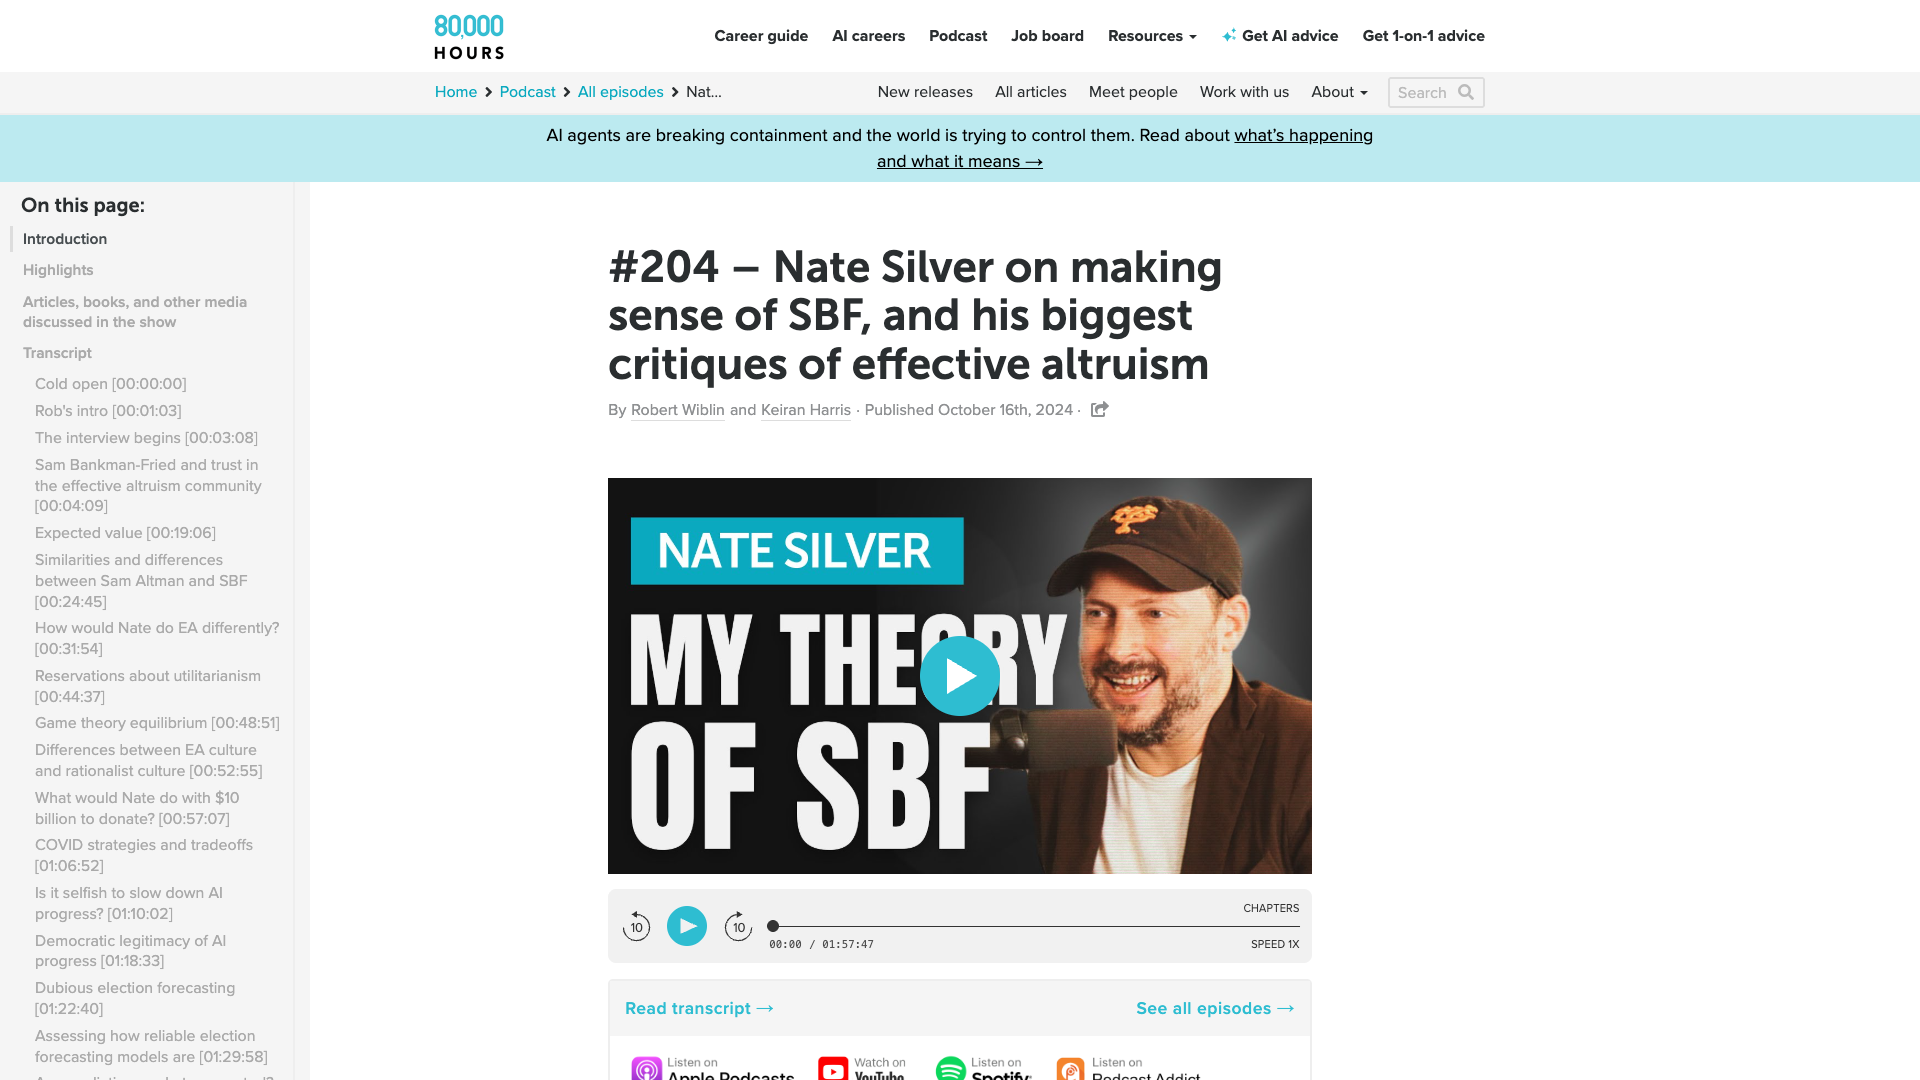
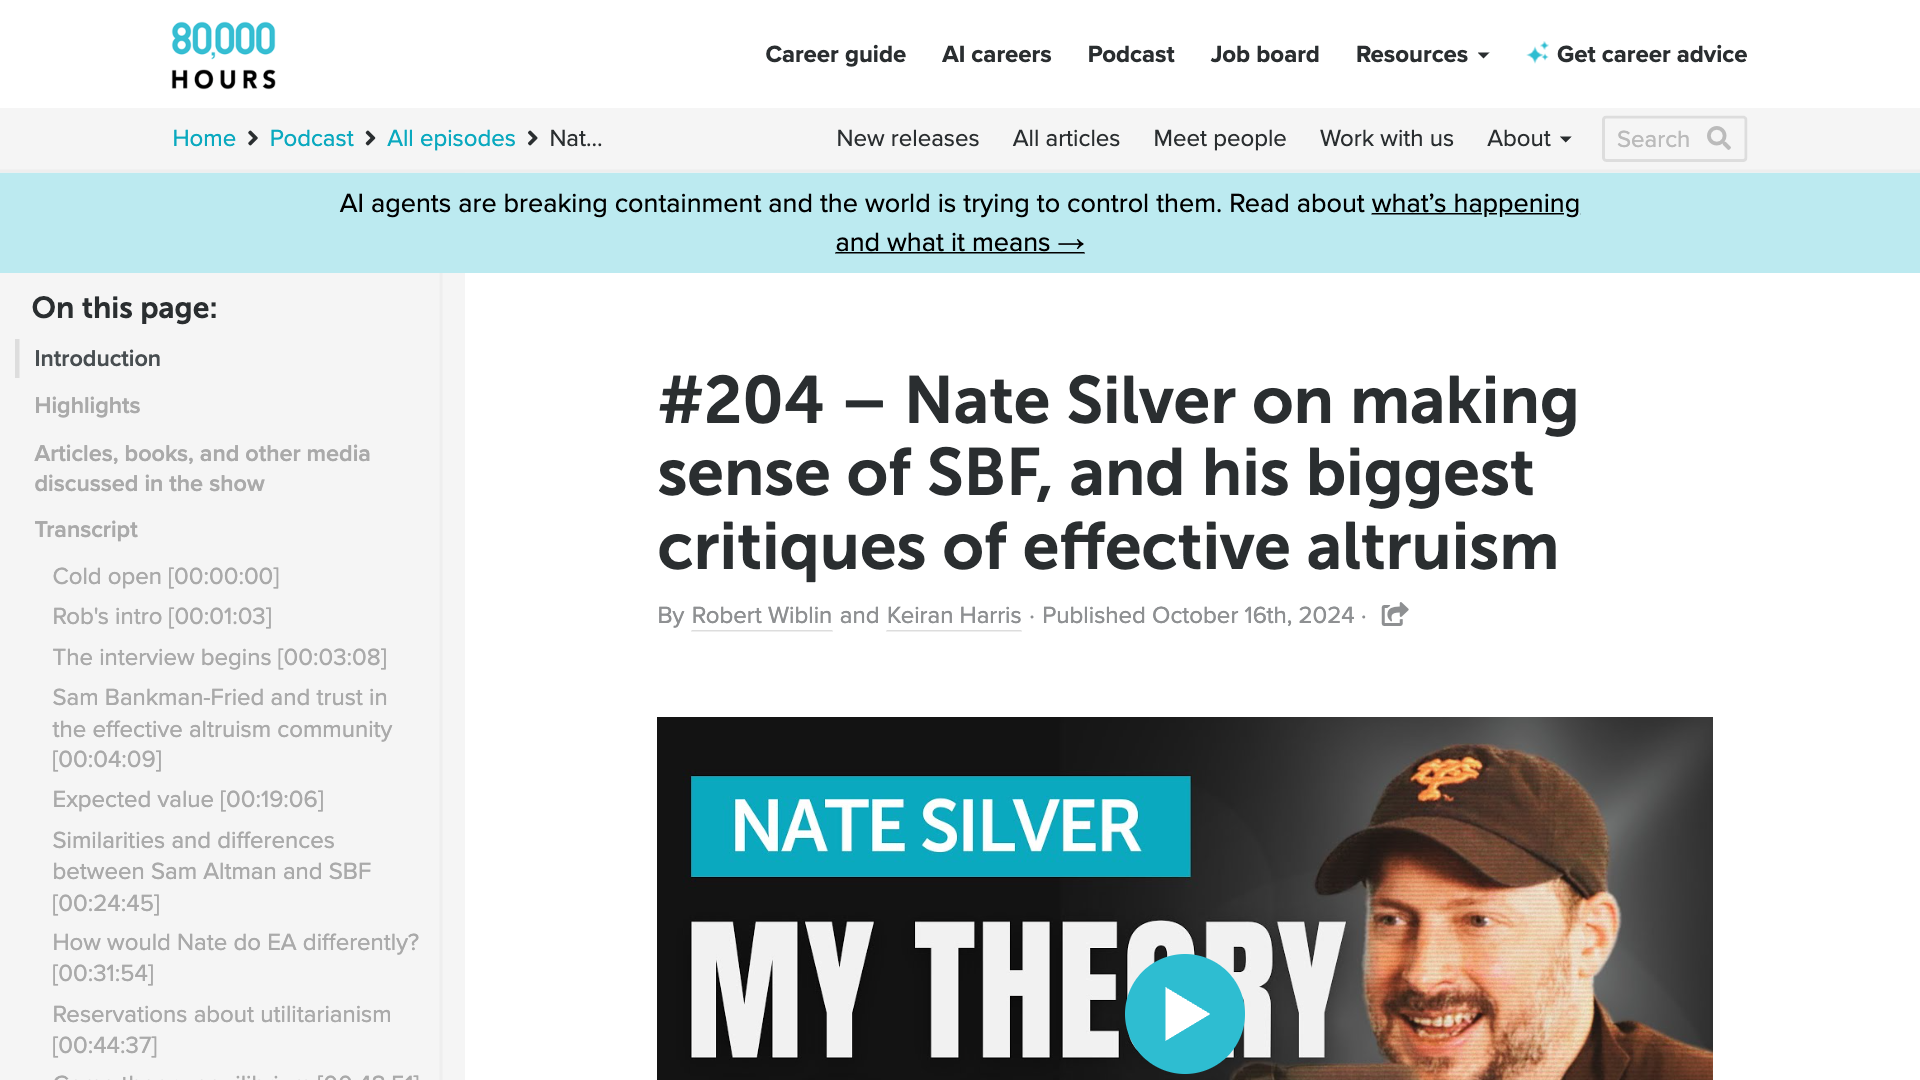
Sponsor pages captured at 150% page zoom; scene 23 scrolls down the full guide page, address bar 80000hours.org/ballpark

diff --git a/animations/assets/web_shots.py b/animations/assets/web_shots.py
@@ -13,7 +13,8 @@ cannot reach it: every recipe below is a URL plus the clicks that get to the boa
 Output: `animations/assets/web_media/<game>.png`, 1920x1080 unless `--size` says
 otherwise (scene 16 uses 1920x1490), dark colour scheme
 requested (a site with no dark mode, like Dordle, stays light) unless a recipe names
-its own scheme as a third field. A screenshot is a
+its own (the recipe's options dict, which can also set a page zoom and a
+full-page capture). A screenshot is a
 POINT-IN-TIME capture of a live site — today's puzzle, today's layout — so re-running
 replaces it; nothing here is computed. The sites change, so a recipe that stops
 finding its click target FAILS LOUDLY rather than saving the menu under the board's
@@ -49,9 +50,16 @@ def _block_ads(route):
         return route.abort()
     return route.continue_()      # after load / after each click: these are JS apps with animations
 
-# game -> (url, [click steps]). A step is a Playwright locator description:
+# game -> (url, [click steps], {options}). A step is a Playwright locator description:
 #   ("text", "Play")        the first visible element whose text is exactly that
 #   ("frame", url_part)     switch into the iframe whose url contains url_part
+# options (all optional) are `_run`'s: scheme ("dark"), zoom (1.0), full_page (False)
+# the 80,000 Hours pages are captured ZOOMED, as Chrome's page zoom would show them:
+# laid out in a 1920/ZOOM-wide window and captured at ZOOM x the pixel density, so
+# the PNG is still 1920 wide but the site's text column fills more of it
+ZOOM_80K = 1.5
+LIGHT_80K = {"scheme": "light", "zoom": ZOOM_80K}
+
 GAMES = {
     # the itch.io page, as a browser shows it; the game is an iframe inside it.
     # (Loaded on its own, the iframe draws in the top-left of a blank white page.)
@@ -70,22 +78,27 @@ GAMES = {
     # the sponsor read (80,000 Hours): plain pages, no clicks, LIGHT scheme -- the
     # site as a visitor normally sees it
     "80k_doctor":   ("https://80000hours.org/articles/how-many-lives-does-a-doctor-save-part-1/",
-                     [], "light"),
-    "80k_problems": ("https://80000hours.org/career-guide/world-problems/", [], "light"),
+                     [], LIGHT_80K),
+    "80k_problems": ("https://80000hours.org/career-guide/world-problems/", [], LIGHT_80K),
     "80k_elie":     ("https://80000hours.org/podcast/episodes/elie-hassenfeld-givewell-critiques-and-lessons/",
-                     [], "light"),
+                     [], LIGHT_80K),
     "80k_oster":    ("https://80000hours.org/podcast/episodes/emily-oster-pregnancy-parenting-careers/",
-                     [], "light"),
+                     [], LIGHT_80K),
     "80k_silver":   ("https://80000hours.org/podcast/episodes/nate-silver-effective-altruism-sbf-art-of-risk/",
-                     [], "light"),
-    # the sign-up page the read's link lands on (the sponsorship's own tracked URL)
+                     [], LIGHT_80K),
+    # the sign-up page the read's link lands on (the sponsorship's own tracked URL);
+    # the WHOLE page, since scene 23 scrolls down it
     "80k_guide":    ("https://80000hours.org/gettheguide/?utm_source=youtube&utm_campaign=2026-80KMAR-ballpark&utm_medium=sponsorship",
-                     [], "light"),
+                     [], {**LIGHT_80K, "full_page": True}),
 }
 
 
-def _run(game, url, steps, browser, full_page=False, view=VIEW, scheme="dark"):
-    ctx = browser.new_context(viewport=view, color_scheme=scheme)
+def _run(game, url, steps, browser, full_page=False, view=VIEW, scheme="dark", zoom=1.0):
+    # zoom: lay the page out in a window 1/zoom the size, at zoom x the pixel
+    # density, so the capture keeps `view`'s pixel size with everything bigger
+    css = {"width": round(view["width"] / zoom), "height": round(view["height"] / zoom)}
+    ctx = browser.new_context(viewport=css, device_scale_factor=zoom,
+                              color_scheme=scheme)
     ctx.route("**/*", _block_ads)
     page = ctx.new_page()
     try:
@@ -127,8 +140,8 @@ def main():
     ap.add_argument("--list", action="store_true", help="print the recipes and stop")
     a = ap.parse_args()
     if a.list:
-        for g, (u, s, *sc) in GAMES.items():
-            print(f"{g:13s} {u}  {s}  {sc[0] if sc else 'dark'}")
+        for g, (u, s, *opts) in GAMES.items():
+            print(f"{g:13s} {u}  {s}  {opts[0] if opts else ''}")
         return
     bad = [g for g in a.games if g not in GAMES]
     if bad:
@@ -139,9 +152,11 @@ def main():
         w, h = (int(x) for x in a.size.lower().split("x"))
         ok = []
         for g in todo:
-            url, steps, *scheme = GAMES[g]
-            ok.append(_run(g, url, steps, browser, a.full_page,
-                           {"width": w, "height": h}, *scheme))
+            url, steps, *opts = GAMES[g]
+            opts = dict(opts[0]) if opts else {}
+            full = a.full_page or opts.pop("full_page", False)
+            ok.append(_run(g, url, steps, browser, full,
+                           {"width": w, "height": h}, **opts))
         browser.close()
     if not all(ok):
         sys.exit(1)

diff --git a/animations/assets/sponsor_pages.py b/animations/assets/sponsor_pages.py
@@ -1,10 +1,11 @@
 """The 80,000 Hours pages shown in the sponsor read's browser window (scenes 21-23).
 
 One place for every page's screenshot, address and tab title, and for the window
-they sit in, so the two scenes cannot drift apart.
+they sit in, so the scenes cannot drift apart.
 
-The screenshots are `web_media/80k_*.png`, 1920x1080, light scheme, made by
-`assets/web_shots.py` (recipes `80k_*`). Tab titles are the pages' own headlines;
+The screenshots are `web_media/80k_*.png`, 1920 wide, light scheme, at 150% page
+zoom, made by `assets/web_shots.py` (recipes `80k_*`); `80k_guide` is the whole
+page, so scene 23 can scroll it. Tab titles are the pages' own headlines;
 `browser.py` cuts a long one to the tab with an ellipsis, as Chrome does.
 """
 from pathlib import Path
@@ -16,6 +17,9 @@ MEDIA = Path(__file__).resolve().parent / "web_media"
 # a 16:9 page plus browser.py's tab strip + toolbar is 0.6085 x its width tall, so
 # 13.2 wide is 8.03 tall: centred, 0.47 of light blue above and below
 WIN_W = 13.2
+# every window's viewport is 16:9 (the 1920x1080 capture); a taller, full-page
+# capture shows its top and scrolls
+ASPECT = 9 / 16
 
 # screenshot -> (address, tab title)
 PAGES = {
@@ -29,8 +33,9 @@ PAGES = {
                      "#178 – Emily Oster on what the evidence actually says about pregnancy and parenting"),
     "80k_silver":   ("80000hours.org/podcast/episodes/nate-silver-effective-altruism-sbf-art-of-risk",
                      "#204 – Nate Silver on making sense of SBF, and his biggest critiques of effective altruism"),
-    # the address as Chrome shows it: the full tracked link, scheme hidden
-    "80k_guide":    ("80000hours.org/gettheguide/?utm_source=youtube&utm_campaign=2026-80KMAR-ballpark&utm_medium=sponsorship",
+    # the address is the read's link, as the VO says it (user's call), not the
+    # tracked URL the page actually lives at
+    "80k_guide":    ("80000hours.org/ballpark",
                      "Get the career guide"),
 }
 
@@ -42,7 +47,7 @@ def _image(name):
 def window(name):
     """The browser window, showing page `name`, centred on the frame."""
     url, title = PAGES[name]
-    return browser_window(url, title, image=_image(name), width=WIN_W)
+    return browser_window(url, title, image=_image(name), width=WIN_W, aspect=ASPECT)
 
 
 def swipe(win, name):

diff --git a/animations/scenes/23guide.py b/animations/scenes/23guide.py
@@ -2,15 +2,16 @@
 unlabelled row 34, VO: "signing up for their mailing list ... this entire book of
 career advice ... 80000hours.org/ballpark"). Light blue background.
 
-A STILL: the page in the browser window, nothing moving, so `render 23a` writes a
-PNG for the edit to hold as long as the VO needs.
+Opens on the top of the page in the browser window, up from frame 0, and scrolls
+down it. The address bar reads 80000hours.org/ballpark, the read's link. Ends with
+the window on screen.
 
 BEAT MAP
-  a guide — the get-the-guide page in the browser window
+  a scroll — the page scrolls down one screen inside the window
 
 REUSE MAP
   browser window    assets/sponsor_pages.py `window`, as scenes 21-22
-  still frame       @still, as hangman 93youtube_test.py
+  scrolling         bpkfigures/browser.py `BrowserWindow.scroll_by` (added for this)
 """
 from pathlib import Path
 import sys
@@ -21,12 +22,15 @@ sys.path.append(str(Path(__file__).resolve().parent.parent.parent.parent))
 from config import *
 from assets import sponsor_pages
 
+SCROLL = 1.0           # how far down the page, in screens
+
 
 class Scene23(WordleScene):
     def setup_scene(self):
-        pass
+        self.win = sponsor_pages.window("80k_guide")       # on from frame 0
+        self.add(self.win)
 
-    # a : the sign-up page
-    @still
-    def guide(self):
-        self.add(sponsor_pages.window("80k_guide"))
+    # a : the page scrolls down
+    @subscene
+    def scroll(self):
+        self.play(self.win.scroll_by(SCROLL), run_time=1.5)
